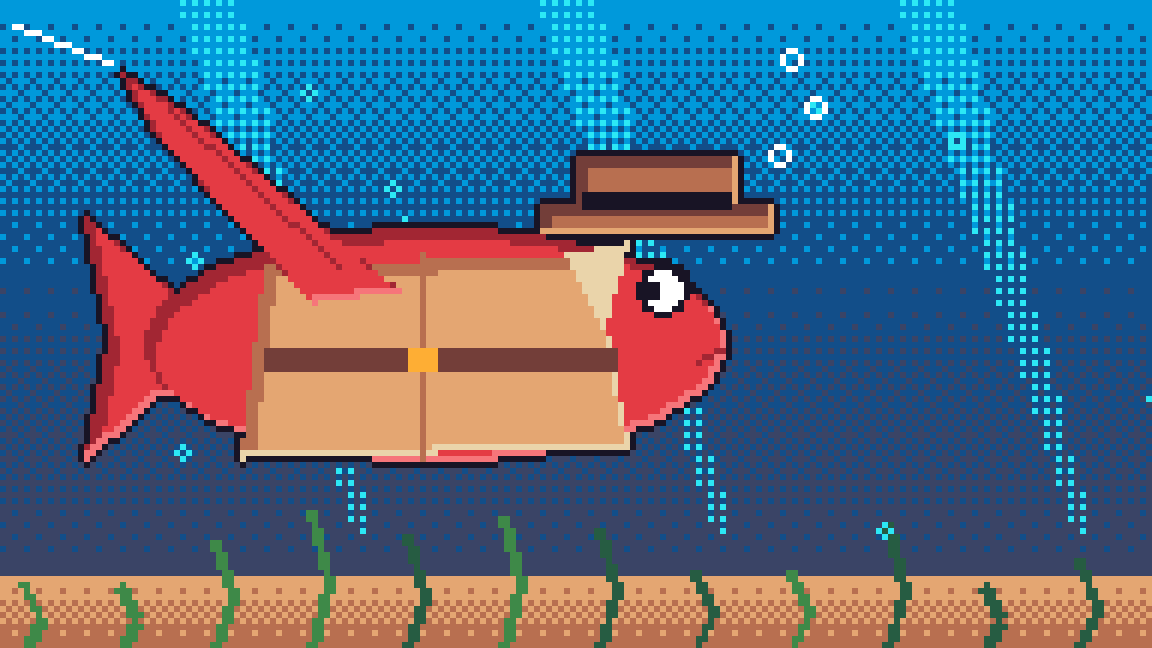
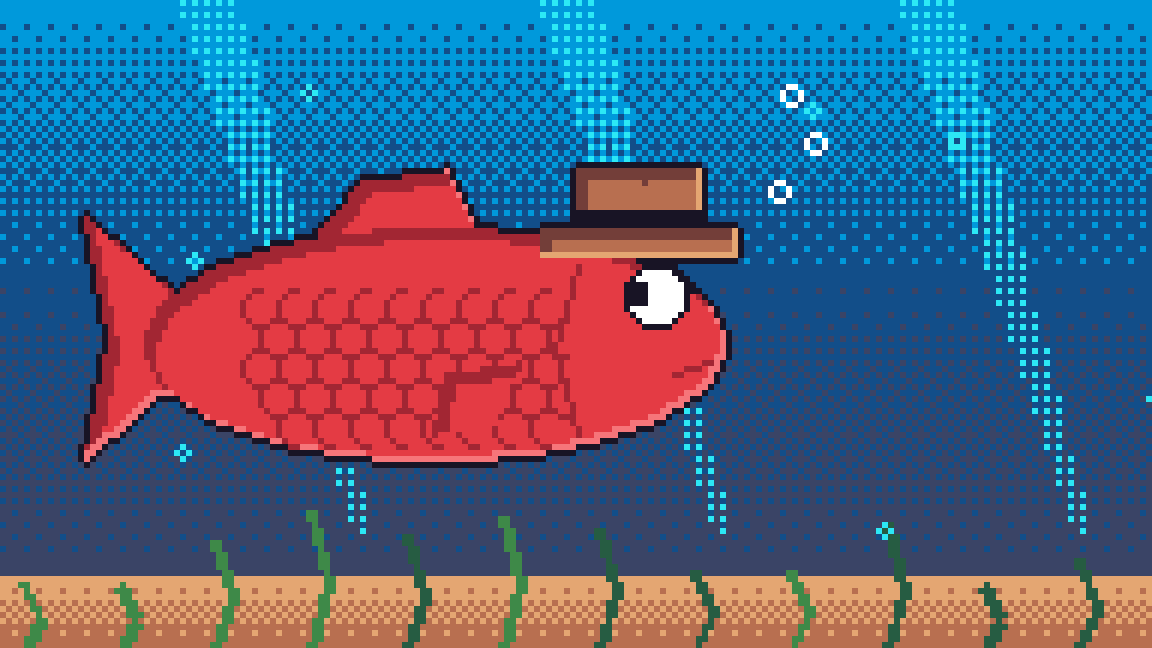
Pixel art: Red Herring a plain red fish in its fedora (no coat, no pointing fin), the hat centred on its head; Sleeper Agent a Matrix-style agent asleep on a table, shades on, earpiece coiled, Zzz, over falling green code (a new background)

Changed region(s): [[0.0938, 0.0926, 0.7188, 0.7099], [0.0, 0.0309, 0.0938, 0.0926], [0.5938, 0.5247, 0.625, 0.5864]]

diff --git a/Tools/pixel_art.py b/Tools/pixel_art.py
@@ -3681,64 +3681,70 @@ def private_equity():
 def sleeper_agent():
     img = layer()
     d = ImageDraw.Draw(img)
-    # The suburban house behind
-    shape(img, lambda dr, v: dr.rectangle([140, 46, 186, 78], fill=v), C["sand"], C["tan"], C["white"])
-    d.polygon([(136, 48), (163, 30), (190, 48)], fill=C["red"] + (255,))
-    d.rectangle([156, 60, 166, 78], fill=C["brown"] + (255,))
-    d.rectangle([144, 54, 152, 62], fill=C["sky"] + (255,))
-    d.rectangle([172, 54, 180, 62], fill=C["sky"] + (255,))
-    # His shadow on the grass: a trench coat, a hat, a sniper rifle
-    shadow = mask()
-    sd = ImageDraw.Draw(shadow)
-    S = lambda a, b: (60 - a, 99 - a * 0.06 + b)  # Along the shadow from his feet (a), across it (b)
-    sd.polygon([S(0, -3), S(18, -3), S(18, 3), S(0, 3)], fill=255)  # Legs
-    sd.polygon([S(14, -7), S(40, -4), S(40, 4), S(14, 7)], fill=255)  # The trench coat, flaring at the hem
-    sd.ellipse([S(46, 0)[0] - 3, S(46, 0)[1] - 3, S(46, 0)[0] + 3, S(46, 0)[1] + 3], fill=255)  # The head
-    sd.polygon([S(49, -6), S(51, -6), S(51, 6), S(49, 6)], fill=255)  # The hat's brim
-    sd.polygon([S(51, -3), S(55, -3), S(55, 3), S(51, 3)], fill=255)  # Its crown
-    sd.line([S(30, -6), S(60, -9)], fill=255, width=2)  # The sniper rifle, held across
-    sd.line([S(30, 5), S(36, -6)], fill=255, width=2)  # An arm to it
-    fill(img, shadow, C["forest"])
-    # The dad mowing the lawn: polo shirt, shorts, an earpiece coiled behind his ear
-    man(img, 64, 98, 1.5, C["skin"], C["green"], C["dark_brown"], face="smile", jacket=C["tan"])
-    for k in range(3):
-        d.arc([70, 36 + k * 3, 74, 40 + k * 3], 270, 90, fill=C["silver"] + (255,))
-    d.line([(72, 62), (90, 74)], fill=C["skin"] + (255,), width=3)
-    d.line([(90, 74), (102, 70), (104, 88)], fill=C["grey"] + (255,), width=2)  # The mower's handle
-    shape(img, lambda dr, v: dr.rectangle([98, 86, 124, 96], fill=v), C["red"], C["wine"], C["pink"])
-    for wx in (102, 120):
-        d.ellipse([wx - 3, 94, wx + 3, 100], fill=C["ink"] + (255,))
+    # The agent (the Matrix look: dark suit, slicked-back hair, slim black shades, a coiled earpiece) asleep at a table,
+    # his head down on his folded arms
+    shape(img, lambda dr, v: dr.ellipse([44, 30, 148, 110], fill=v), C["night"], C["ink"], C["forest"])  # His back and shoulders
+    shape(img, lambda dr, v: dr.rectangle([10, 74, 182, 82], fill=v), C["grey"], C["slate"], C["silver"])  # The table
+    shape(img, lambda dr, v: dr.rectangle([16, 82, 176, H + 2], fill=v), C["slate"], C["navy"])
+    for x0, x1 in ((50, 100), (92, 142)):  # Folded arms
+        shape(img, lambda dr, v: dr.ellipse([x0, 60, x1, 78], fill=v), C["night"], C["ink"], C["forest"])
+    # The head, tilted down onto the arms (every point turned, so the lines stay crisp)
+    a = math.radians(22)
+    ca, sa = math.cos(a), math.sin(a)
+    T = lambda x, y: (96 + x * ca - y * sa, 46 + x * sa + y * ca)
+    ell = lambda x0, y0, rx, ry, t0=0.0, t1=2 * math.pi, n=40: [T(x0 + rx * math.cos(t0 + (t1 - t0) * k / n), y0 + ry * math.sin(t0 + (t1 - t0) * k / n)) for k in range(n + 1)]
+    ink = C["ink"] + (255,)
+    d.polygon([T(-9, 12), T(9, 12), T(0, 22)], fill=C["white"] + (255,))  # The collar
+    d.polygon([T(-2, 13), T(2, 13), T(0, 21)], fill=C["night"] + (255,))
+    shape(img, lambda dr, v: dr.polygon(ell(-14, 1, 2.5, 4), fill=v), C["skin"], C["skin_dark"])  # An ear
+    shape(img, lambda dr, v: dr.polygon(ell(0, 0, 13, 16), fill=v), C["skin"], C["skin_dark"], C["white"])
+    d.polygon(ell(0, -1, 13.5, 16.5, math.pi * 1.05, math.pi * 1.95) + [T(9, -9), T(0, -12), T(-9, -9)], fill=C["dark_brown"] + (255,))  # Slicked back
+    for x in (-6, -1, 4):
+        d.line([T(x, -14), T(x + 3, -9)], fill=C["plum"] + (255,))
+    for x0, x1 in ((-10, -2), (2, 10)):  # The shades
+        d.polygon([T(x0, -3), T(x1, -3), T(x1 - 1, 2), T(x0 + 1, 2)], fill=ink)
+        d.line([T(x0 + 1, -2), T(x0 + 3, -2)], fill=C["slate"] + (255,))
+    d.line([T(-2, -2), T(2, -2)], fill=ink)
+    d.line([T(-10, -2), T(-13, -1)], fill=ink)
+    d.line([T(0, 3), T(1, 6)], fill=C["skin_dark"] + (255,))
+    d.line([T(-3, 10), T(3, 10)], fill=C["skin_dark"] + (255,))  # A slack mouth
+    for k in range(6):  # The earpiece cord coiling down into his collar
+        d.line([T(-15 + (k % 2) * 2, 4 + k * 2), T(-13 - (k % 2) * 2, 5 + k * 2)], fill=C["silver"] + (255,))
     img = outline(img)
-    for x in range(96, 128, 4):  # Grass flying
-        dot(img, x + 2, 84 - (x % 3) * 2, C["green"])
+    d = ImageDraw.Draw(img)
+    dx, dy = T(3, 12)
+    d.line([dx, dy, dx, dy + 4], fill=C["sky"] + (255,))  # A thread of drool
+    pixel_text(img, 118, 30, "Z", C["white"])
+    pixel_text(img, 126, 20, "Z", C["white"], 2)
+    pixel_text(img, 138, 6, "Z", C["white"], 3)
     return img
 
 
 def red_herring():
     img = layer()
     d = ImageDraw.Draw(img)
-    # A red herring in a detective's trench coat and hat, pointing a fin dramatically off to the side
+    # A red herring in a detective's fedora, its eye sliding shiftily aside
     shape(img, lambda dr, v: dr.polygon([(30, 50), (14, 36), (18, 56), (14, 76), (30, 62)], fill=v), C["red"], C["wine"], C["pink"])  # The tail
-    shape(img, lambda dr, v: dr.ellipse([24, 38, 120, 76], fill=v), C["red"], C["wine"], C["pink"])
-    shape(img, lambda dr, v: dr.polygon([(44, 44), (98, 42), (104, 74), (40, 76)], fill=v), C["tan"], C["brown"], C["sand"])  # The trench coat
-    d.line([(70, 42), (70, 76)], fill=C["brown"] + (255,))
-    d.rectangle([44, 58, 102, 61], fill=C["dark_brown"] + (255,))  # Its belt
-    d.rectangle([68, 58, 72, 61], fill=C["amber"] + (255,))
-    d.polygon([(94, 42), (104, 40), (100, 54)], fill=C["sand"] + (255,))  # The collar up
-    shape(img, lambda dr, v: dr.rectangle([96, 26, 122, 36], fill=v), C["brown"], C["dark_brown"], C["tan"])  # The fedora
-    shape(img, lambda dr, v: dr.rectangle([90, 34, 128, 38], fill=v), C["brown"], C["dark_brown"], C["tan"])
-    d.rectangle([97, 32, 121, 34], fill=C["ink"] + (255,))
-    d.ellipse([106, 44, 114, 52], fill=C["white"] + (255,), outline=C["ink"] + (255,))  # A shifty eye, glancing aside
-    d.rectangle([107, 47, 109, 49], fill=C["ink"] + (255,))
-    d.line([(116, 60), (120, 58)], fill=C["wine"] + (255,))
-    # The fin, flung out to point off to the side, back over its shoulder
-    shape(img, lambda dr, v: dr.polygon([(66, 48), (56, 40), (30, 18), (20, 12), (26, 22), (52, 50)], fill=v), C["red"], C["wine"], C["pink"])  # Pointing back the way it came
-    d.line([(56, 44), (28, 18)], fill=C["wine"] + (255,))
+    shape(img, lambda dr, v: dr.polygon([(50, 42), (60, 30), (74, 28), (80, 40)], fill=v), C["red"], C["wine"], C["pink"])  # The dorsal fin
+    body = shape(img, lambda dr, v: dr.ellipse([24, 38, 120, 76], fill=v), C["red"], C["wine"], C["pink"])
+    bm = body.load()
+    for row, y in enumerate(range(48, 70, 5)):  # Scales
+        for x in range(40 + (row % 2) * 3, 92, 6):
+            if bm[x, y] and bm[x + 4, y + 4] and bm[x, y + 5]:
+                d.arc([x, y, x + 6, y + 6], 90, 270, fill=C["wine"] + (255,))
+    d.line([(96, 44), (92, 58), (96, 72)], fill=C["wine"] + (255,))  # The gill
+    shape(img, lambda dr, v: dr.polygon([(74, 62), (86, 60), (82, 70), (72, 72)], fill=v), C["red"], C["wine"])  # A side fin
+    d.ellipse([104, 44, 114, 54], fill=C["white"] + (255,), outline=C["ink"] + (255,))  # The shifty eye
+    d.rectangle([105, 47, 107, 50], fill=C["ink"] + (255,))
+    d.line([(112, 62), (118, 60)], fill=C["wine"] + (255,))
+    # The fedora, sat square on its head
+    shape(img, lambda dr, v: dr.rectangle([96, 28, 116, 40], fill=v), C["brown"], C["dark_brown"], C["tan"])
+    shape(img, lambda dr, v: dr.rectangle([90, 38, 122, 42], fill=v), C["brown"], C["dark_brown"], C["tan"])
+    d.rectangle([96, 35, 116, 37], fill=C["ink"] + (255,))
+    d.line([105, 28, 107, 30], fill=C["dark_brown"] + (255,))
     img = outline(img)
     d = ImageDraw.Draw(img)
-    for k in range(3):  # "Over there!"
-        d.line([2 + k * 5, 4 + k * 2, 8 + k * 5, 6 + k * 2], fill=C["white"] + (255,))
-    for x, y in ((128, 24), (134, 16), (130, 8)):
+    for x, y in ((128, 30), (134, 22), (130, 14)):
         d.ellipse([x, y, x + 3, y + 3], outline=C["white"] + (255,))
     return img
 
@@ -3752,10 +3758,29 @@ CARDS += [
     ("Zealot", "street", zealot),
     ("WebScraping", "room_day", web_scraping),
     ("PrivateEquity", "street", private_equity),
-    ("SleeperAgent", "field", sleeper_agent),
+    ("SleeperAgent", "matrix", sleeper_agent),
     ("RedHerring", "underwater", red_herring),
 ]
 BACKGROUNDS.update({"bazaar": bg_bazaar, "street": bg_street})
+
+
+def bg_matrix():
+    """Falling green code on black."""
+    img = layer()
+    gradient(img, [C["ink"], C["night"]], 0, H)
+    rnd = random.Random(157)
+    glyphs = list("0123456789ABCDEFGHKMNRSTUXYZ")
+    for x in range(2, W, 6):
+        top, length = rnd.randint(-40, 60), rnd.randint(4, 12)
+        for k in range(length):
+            y = top + k * 7
+            if 0 <= y < H:
+                col = C["green"] if k == length - 1 else (C["dark_green"] if k > length - 4 else C["forest"])
+                pixel_text(img, x, y, rnd.choice(glyphs), col)
+    return img
+
+
+BACKGROUNDS["matrix"] = bg_matrix
 
 
 def main():

diff --git a/Tools/art_briefs.py b/Tools/art_briefs.py
@@ -97,6 +97,9 @@ USER_NOTES = {
     "Monkey Hand": ["2026-10-14 (pixel art): remake it after the user's reference, the monkey's paw scene from a cartoon: in "
                     "a bazaar, a man in a red fez holding the shrivelled paw up at a cringing old merchant in a grey turban "
                     "(drawn as our own characters, not the cartoon's)."],
+    "Red Herring": ["2026-10-14 (pixel art): no suit and no fin pulling at it; keep the hat, centred on the head."],
+    "Sleeper Agent": ["2026-10-14 (pixel art): Agent Smith from The Matrix (the user's still) asleep on a table: drawn as the "
+                      "Matrix-agent look (dark suit, slicked hair, slim black shades, coiled earpiece), falling green code behind."],
     "Hollowed-Out Volcano Lair": ["2026-10-14 (pixel art): like the You Only Live Twice set (the user's still): inside the "
                                   "crater, the round opening to the sky, a helicopter, the rocket in its gantry, the helipad, "
                                   "the world map, the control room, the crew in their jumpsuits and white helmets."],
